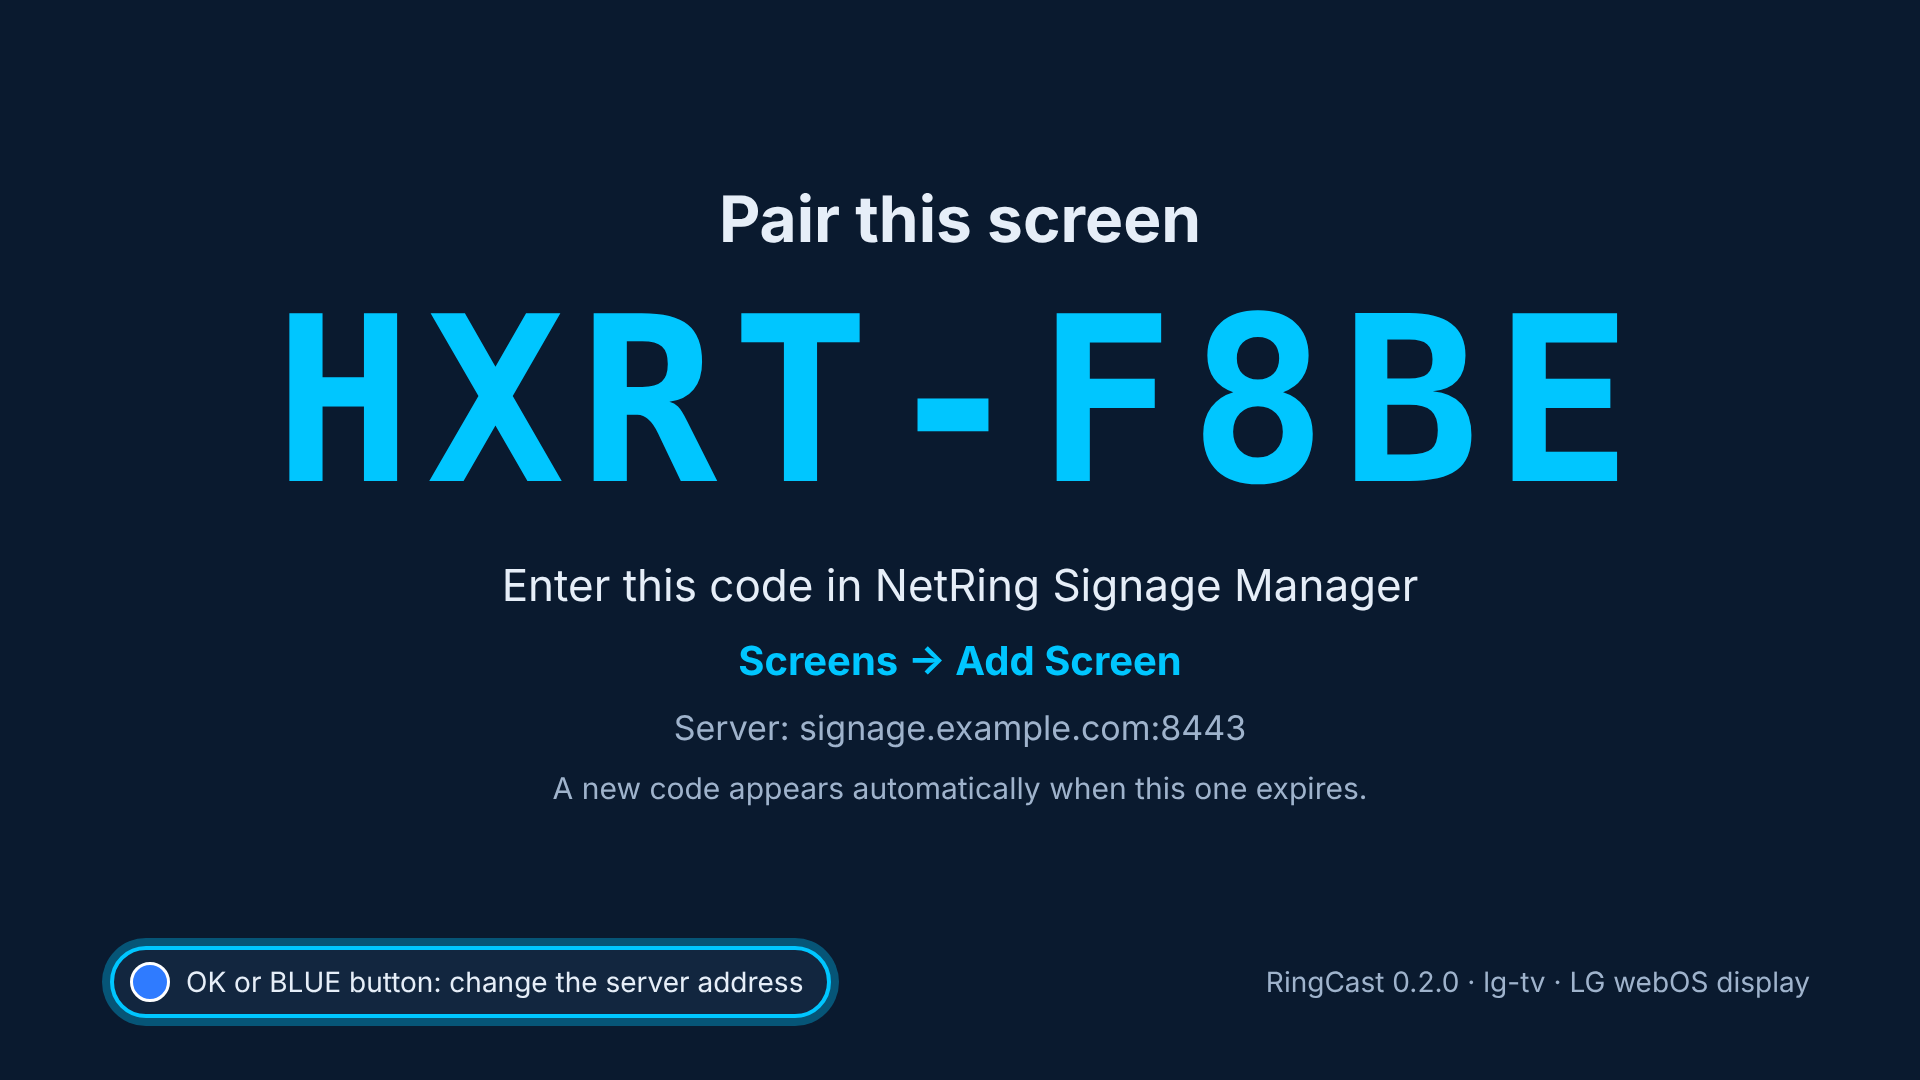
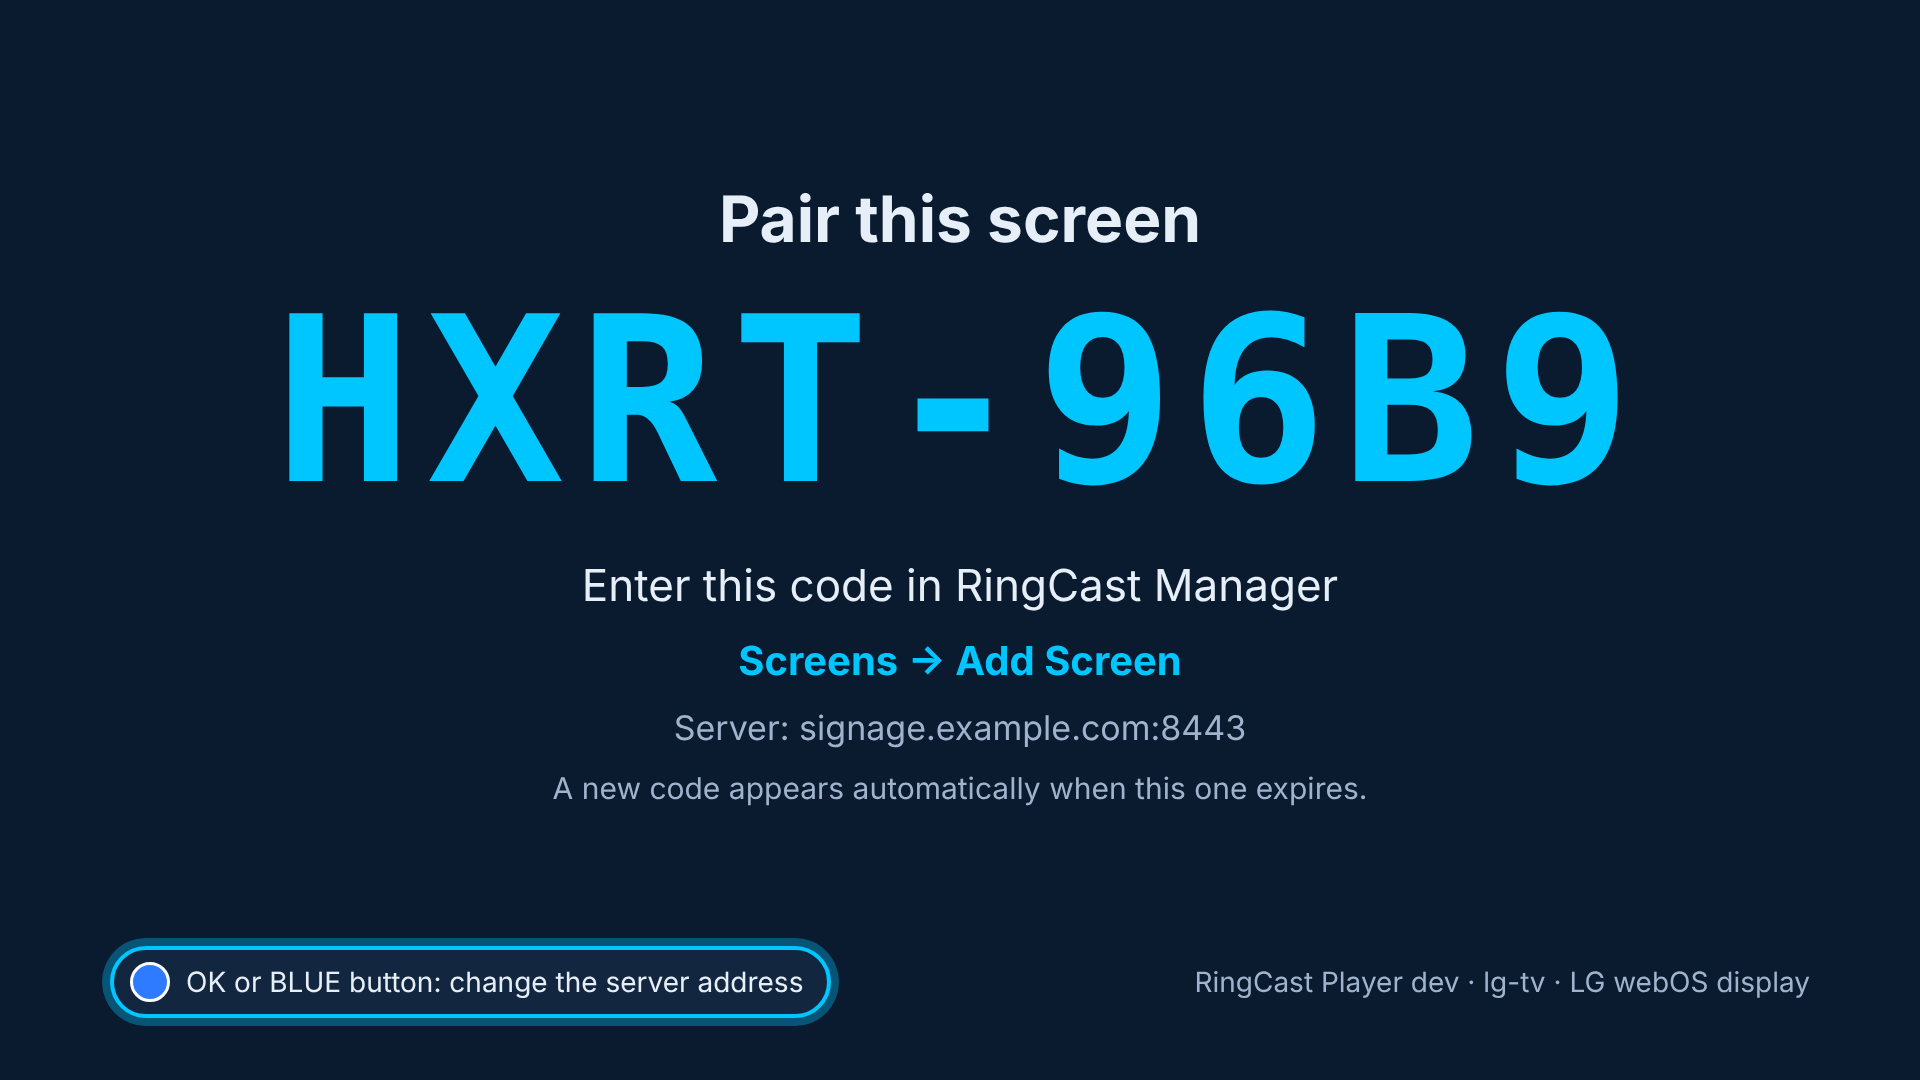
Rename the app shown to people: RingCast Player 0.2.1
The screen software is now RingCast Player and the server RingCast Manager
(RingCast Signage, "RingCast by NetRing"). The app title, screens, store
listing, test info and screenshots use the new names; the app id stays
com.netringtech.ringcast so installed TVs update in place. New version because
the shown text changed.

Claude-Session: https://claude.ai/code/session_014dK3YmHiisxKn2wxsG7K4P

diff --git a/app/js/strings.js b/app/js/strings.js
@@ -10,10 +10,10 @@
 
   var STRINGS = {
     en: {
-      app_name: "RingCast",
+      app_name: "RingCast Player",
       // address screen
       addr_title: "Connect to your signage server",
-      addr_intro: "Enter the address of your NetRing Signage Manager server.",
+      addr_intro: "Enter the address of your RingCast Manager server.",
       addr_cert: "LG displays need a server with a public certificate (for example from Let's Encrypt).",
       addr_label: "Server address",
       addr_example: "Example: https://signage.example.com",
@@ -70,14 +70,14 @@
       frame_no_session_hint: "The display refused the player's sign-in cookie inside the app, so the player can't show content. Please report this message with the line below.",
       frame_footer: "Server: {host} · {diag}",
       // diagnostics
-      diag: "RingCast {version} · {platform} · {model}",
-      diag_ip: "RingCast {version} · {platform} · {model} · IP {ip}",
+      diag: "RingCast Player {version} · {platform} · {model}",
+      diag_ip: "RingCast Player {version} · {platform} · {model} · IP {ip}",
       model_unknown: "LG webOS display"
     },
     es: {
-      app_name: "RingCast",
+      app_name: "RingCast Player",
       addr_title: "Conectar con su servidor de señalización",
-      addr_intro: "Introduzca la dirección de su servidor NetRing Signage Manager.",
+      addr_intro: "Introduzca la dirección de su servidor RingCast Manager.",
       addr_cert: "Las pantallas LG necesitan un servidor con un certificado público (por ejemplo de Let's Encrypt).",
       addr_label: "Dirección del servidor",
       addr_example: "Ejemplo: https://signage.example.com",
@@ -129,8 +129,8 @@
       frame_cookie_hint: "Puede que la pantalla no conserve la cookie del reproductor dentro de la aplicación (vea PROTOCOL §5.3). Por favor, comunique este mensaje.",
       frame_no_session_hint: "La pantalla rechazó la cookie de inicio de sesión del reproductor dentro de la aplicación, así que el reproductor no puede mostrar contenido. Por favor, comunique este mensaje junto con la línea de abajo.",
       frame_footer: "Servidor: {host} · {diag}",
-      diag: "RingCast {version} · {platform} · {model}",
-      diag_ip: "RingCast {version} · {platform} · {model} · IP {ip}",
+      diag: "RingCast Player {version} · {platform} · {model}",
+      diag_ip: "RingCast Player {version} · {platform} · {model} · IP {ip}",
       model_unknown: "Pantalla LG webOS"
     }
   };

diff --git a/tests/test_logic.js b/tests/test_logic.js
@@ -23,10 +23,10 @@ test("pairing codes: 4 letters (self-hosted) or 6 (cloud), dash, 4 upper-case he
 
 test("pairing response: ids checked, numbers clamped, strings clipped", () => {
   const base = { pairing_id: "q3V0abcdefghijklmnopqr", code: "HXRT-2B99", expires_in_s: 900, poll_interval_s: 4,
-    server_name: "NetRing Signage Manager", add_screen_hint: "Screens → Add Screen" };
+    server_name: "RingCast Manager", add_screen_hint: "Screens → Add Screen" };
   const p = C.parsePairResponse(base);
   eq(p, { pairingId: base.pairing_id, code: "HXRT-2B99", pollIntervalS: 4, expiresInS: 900,
-    serverName: "NetRing Signage Manager", hint: "Screens → Add Screen" });
+    serverName: "RingCast Manager", hint: "Screens → Add Screen" });
   assert.strictEqual(C.parsePairResponse(Object.assign({}, base, { poll_interval_s: 0.5 })).pollIntervalS, 3);
   assert.strictEqual(C.parsePairResponse(Object.assign({}, base, { poll_interval_s: 999 })).pollIntervalS, 30);
   assert.strictEqual(C.parsePairResponse(Object.assign({}, base, { poll_interval_s: "4" })).pollIntervalS, 4);

diff --git a/tests/test_agent.js b/tests/test_agent.js
@@ -107,7 +107,7 @@ test("pairing: signed request with platform, capabilities, model; code from the 
   const fp = crypto.createHash("sha256").update(raw).digest("hex");
   const shown = e.uiCalls("code")[0].v;
   assert.strictEqual(shown.code.split("-")[1], fp.slice(0, 4).toUpperCase());
-  assert.strictEqual(shown.serverName, "NetRing Signage Manager");
+  assert.strictEqual(shown.serverName, "RingCast Manager");
   assert.strictEqual(shown.hint, "Screens → Add Screen");
   const r = e.server.requests.find((x) => x.path === PATH + "pair/request");
   assert.strictEqual(r.headers["X-RingCast-Key-Id"], fp);

diff --git a/app/js/agent.js b/app/js/agent.js
@@ -3,7 +3,7 @@
 //
 // The screen's behaviour (docs/PROTOCOL.txt): server address check, pairing (§3), device token
 // (§4), check-in and commands (§5.1, §5.2) and the player session shown in a frame (§5.3).
-// It matches the RingCast client for Raspberry Pi: same signatures, error handling, backoff,
+// It matches the RingCast Player for Raspberry Pi: same signatures, error handling, backoff,
 // the 60 s "Claimed by" notice before the token is saved, and "post the result, then act".
 //
 // No DOM access: the screens are drawn by the `ui` object it is given (ui.js), and time,

diff --git a/tests/fake_server.js b/tests/fake_server.js
@@ -130,7 +130,7 @@ class FakeServer {
       expiresAt: this.now() + this.expires * 1000 };
     this.ev("pair_request", { code: letters + "-" + suffix, body: b });
     return this.json(201, { pairing_id: pid, code: letters + "-" + suffix, expires_in_s: this.expires,
-      poll_interval_s: this.pollInterval, server_name: "NetRing Signage Manager",
+      poll_interval_s: this.pollInterval, server_name: "RingCast Manager",
       add_screen_hint: "Screens → Add Screen", protocol: { min: 1, max: 1 } });
   }
 

diff --git a/app/js/ui.js b/app/js/ui.js
@@ -280,7 +280,7 @@
     var code = this.$("code");
     code.textContent = o.code;
     code.className = o.code.length > 9 ? "code long" : "code";
-    this.setText("code-enter", RC.t("pair_enter", { server: o.serverName || "NetRing Signage Manager" }));
+    this.setText("code-enter", RC.t("pair_enter", { server: o.serverName || "RingCast Manager" }));
     this.setText("code-hint", o.hint);
     this.$("code-hint").hidden = !o.hint;
     this.setText("code-server", RC.t("pair_server", { host: o.host }));

diff --git a/app/js/main.js b/app/js/main.js
@@ -75,7 +75,7 @@
     ui.init(agent);
     RC.app = { agent: agent, ui: ui };
     agent.start();
-    log("RingCast " + RC.config.version + " (" + RC.config.platform + ") started");
+    log("RingCast Player " + RC.config.version + " (" + RC.config.platform + ") started");
   }
 
   if (root.document.readyState === "loading") root.document.addEventListener("DOMContentLoaded", start);

diff --git a/app/index.html b/app/index.html
@@ -8,7 +8,7 @@
 <head>
   <meta charset="utf-8">
   <meta name="viewport" content="width=1920, height=1080, initial-scale=1">
-  <title>RingCast</title>
+  <title>RingCast Player</title>
   <link rel="stylesheet" href="css/app.css">
 </head>
 <body>

diff --git a/tests/e2e_screens.py b/tests/e2e_screens.py
@@ -58,7 +58,7 @@ h1{position:absolute;left:120px;top:230px;margin:0;font-size:150px;line-height:1
 p{position:absolute;left:120px;top:590px;margin:0;font-size:56px;color:#d8e4f2;width:1300px}
 .clock{position:absolute;right:120px;bottom:100px;font-size:120px;font-weight:700;color:#7fd8ff}
 </style></head><body><div class="k">Sample content</div><h1>Welcome to<br>the lobby</h1>
-<p>Messages, menus and schedules from your NetRing Signage Manager server, played full screen.</p>
+<p>Messages, menus and schedules from your RingCast Manager server, played full screen.</p>
 <div class="clock" id="c"></div><script>
 function t(){var d=new Date();document.getElementById("c").textContent=("0"+d.getHours()).slice(-2)+":"+("0"+d.getMinutes()).slice(-2);}
 t();setInterval(t,1000);
@@ -201,7 +201,7 @@ class Handler(BaseHTTPRequestHandler):
             code = "HXRT-" + fp[:4].upper()
             S.pairings[pid] = {"raw": raw, "code": code, "status": "waiting", "request": b}
             return self.send(201, {"pairing_id": pid, "code": code, "expires_in_s": 900, "poll_interval_s": 3,
-                                   "server_name": "NetRing Signage Manager", "add_screen_hint": "Screens → Add Screen",
+                                   "server_name": "RingCast Manager", "add_screen_hint": "Screens → Add Screen",
                                    "protocol": {"min": 1, "max": 1}})
         if path == "/api/device/v1/pair/status":
             p = S.pairings.get(b.get("pairing_id"))

diff --git a/CLAUDE.md b/CLAUDE.md
@@ -1,4 +1,4 @@
-# RingCast for LG webOS: instructions for Claude
+# RingCast Player for LG webOS: instructions for Claude
 
 Screen app for RingCast signage on LG webOS displays. Owner: Rick Valcourt, NetRing Tech
 Services, LLC. Licence: **AGPL-3.0**. Private now, **public** at launch: write as if public.
@@ -23,6 +23,18 @@ Services, LLC. Licence: **AGPL-3.0**. Private now, **public** at launch: write a
 7. Server-provided text is shown as text, never executed; the app only opens the server's own
    player page.
 8. Commits: one logical change each, with a "why" message. Work on branches and open PRs.
+
+## Product names (decided 2026-10-05)
+
+- **RingCast Signage** is the product family, presented as **"RingCast by NetRing"**.
+- **RingCast Manager**: the self-hosted server and its dashboard (formerly "NetRing Signage Manager").
+- **RingCast Player**: the software on screens: Raspberry Pi and LG webOS (formerly "RingCast client").
+  The LG app tile and store listing say "RingCast Player"; the Pi installer is the "RingCast Player installer".
+- Only names people see change (UI, installer screens, guides, release titles and notes, website).
+  Technical identifiers stay as they are so installed servers and screens keep updating:
+  repo names, `/opt/netring-signage`, service and user names, `netring-signage-manager-X.Y.Z.run`,
+  `ringcast-client-X.Y.Z.tar.gz`, `ringcast-pi-installer-X.Y.Z.zip`, `Install-PiClient.ps1`,
+  LG app id `com.netringtech.ringcast`, signing namespaces.
 
 ## Publication rules (decided 2026-10-02)
 
@@ -54,5 +66,5 @@ renewal, LG testing) are in the claude.ai project doc `claude/netring-signage-ru
 
 ## Releasing
 
-The LG app ships inside the NetRing Signage Manager release (the server publishes it at `/lg/`).
+The LG app ships inside the RingCast Manager release (the server publishes it at `/lg/`).
 Use the **netring-signage-release** skill / `docs/RELEASING.txt` in netring-signage-manager.
